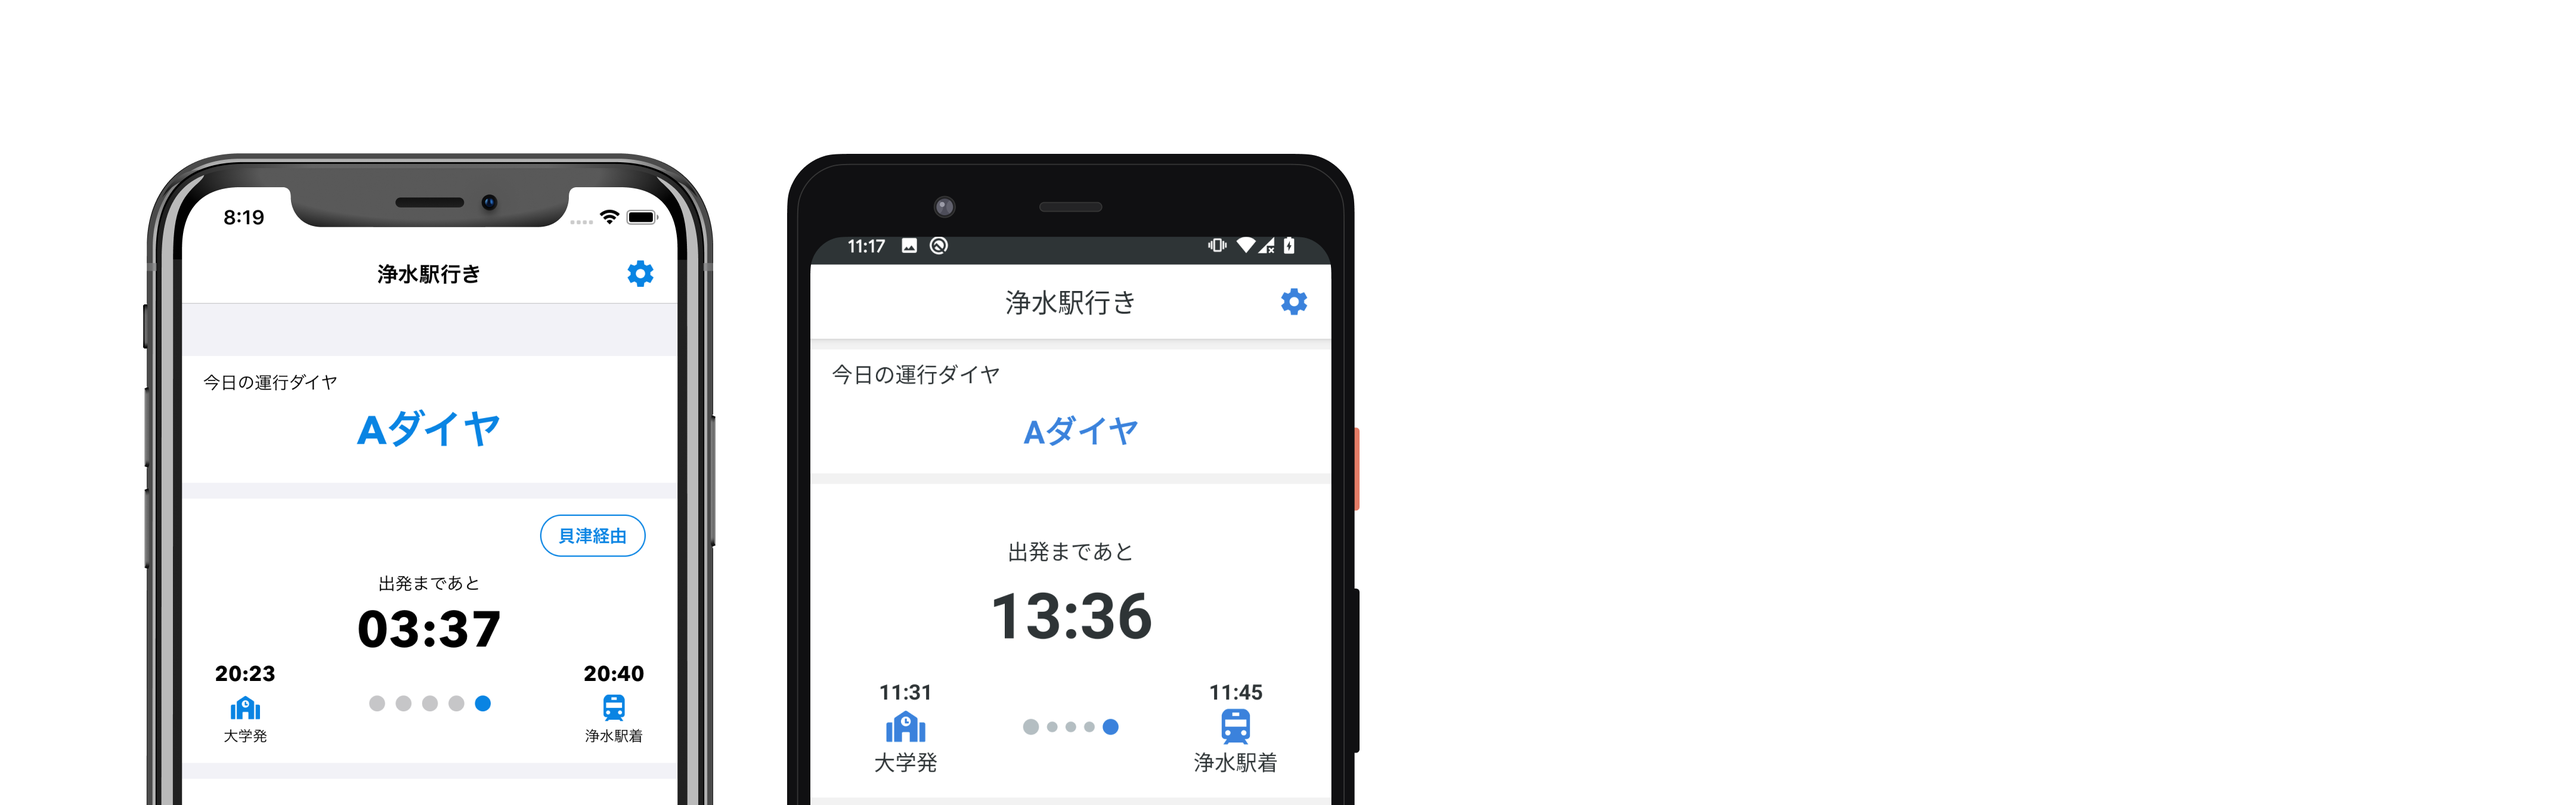
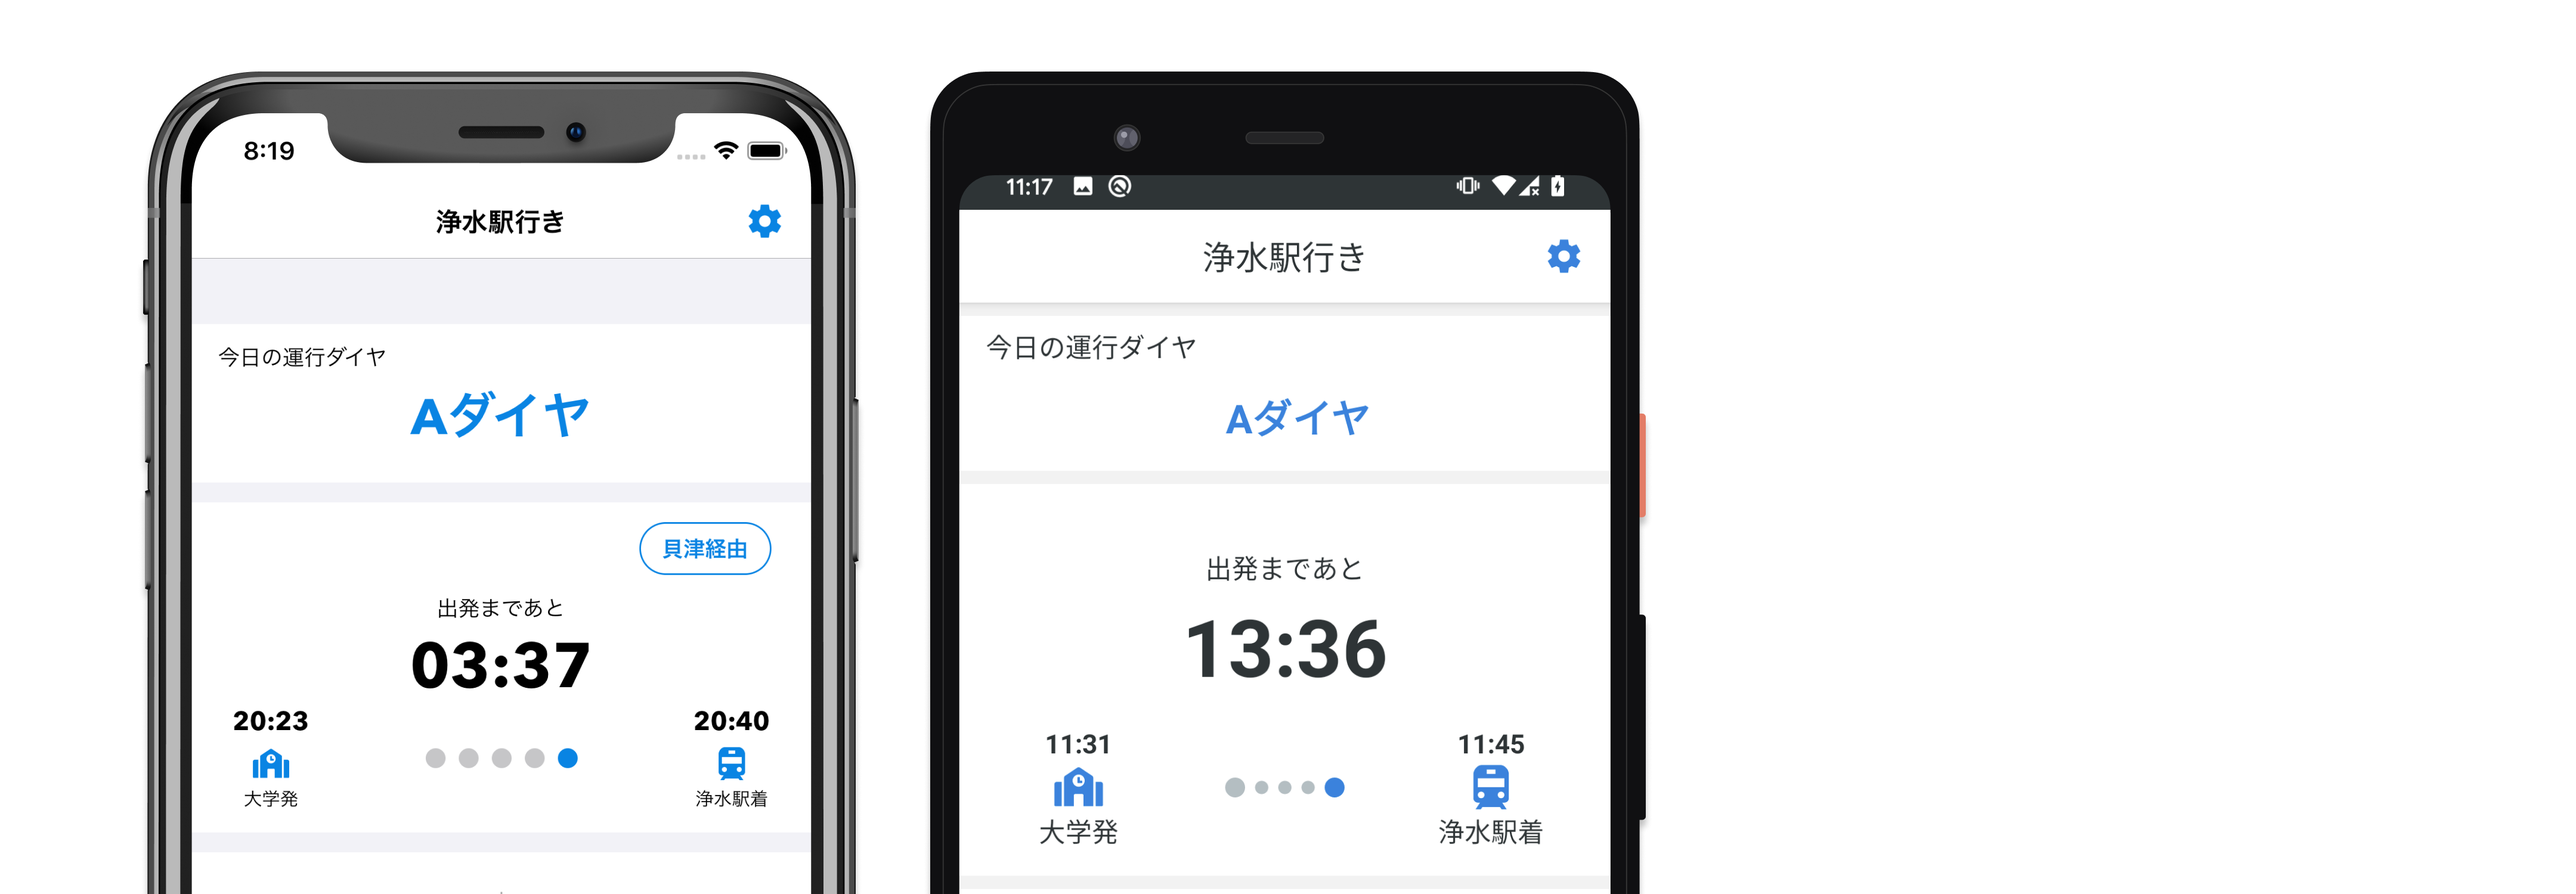
Replace screen shot image

Changed region(s): [[0.0312, 0.0622, 0.6562, 1.0], [0.5625, 0.8089, 0.5938, 0.9644]]

diff --git a/docs/about.md b/docs/about.md
@@ -13,13 +13,13 @@
 
 ## 次に来るバスの確認
 <!-- TODO: 正しい画像の差し替え -->
-![バスの一覧を確認](_assets/about-countdown.png)
+![バスの一覧を確認](_assets/about-check-next.png)
 
 次に来るバスを一覧で確認できます。
 
 ## 出発時刻の5分前に通知を設定
 <!-- TODO: 正しい画像の差し替え -->
-![通知を設定](_assets/about-countdown.png)
+![通知を設定](_assets/about-notification.png)
 
 バスの出発時刻の5分前にアラームを設定できます。
 
@@ -27,6 +27,6 @@
 
 ## 起動時の画面を設定
 <!-- TODO: 正しい画像の差し替え -->
-![通知を設定](_assets/about-countdown.png)
+![通知を設定](_assets/about-tab-setting.png)
 
 起動時に `浄水駅行き` を表示するか `大学行き` を表示するか設定することができます。

diff --git a/docs/precautions.md b/docs/precautions.md
@@ -1,1 +1,1 @@
-# Precaoutions
+# 利用上の注意
